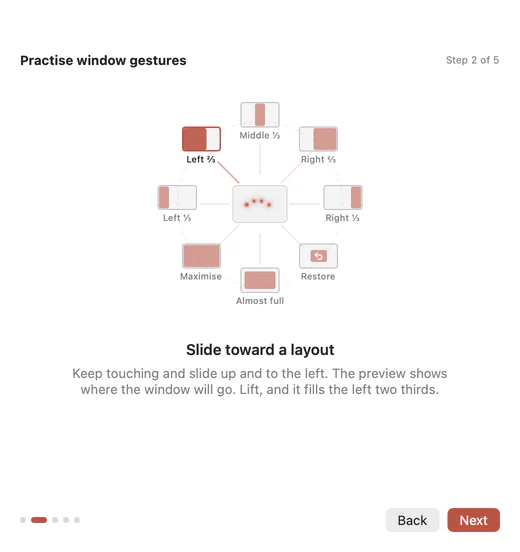
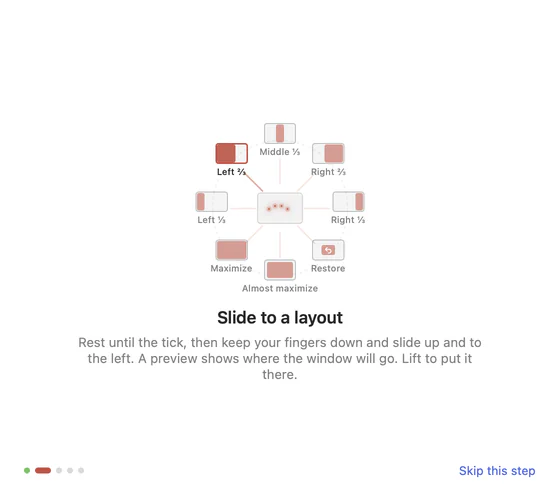
Screenshots with American spelling; the windows shot shows the new practice window

diff --git a/site/index.html b/site/index.html
@@ -131,8 +131,8 @@
     <figure class="shot">
       <picture>
         <source media="(prefers-color-scheme: dark)" srcset="img/windows-dark-1x.webp 1x, img/windows-dark.webp 2x">
-        <img src="img/windows-1x.webp" srcset="img/windows-1x.webp 1x, img/windows.webp 2x" width="520" height="552" loading="lazy" style="--w: 460px"
-             alt="The Practice window gestures walk-through, step 2 of 5: eight window layouts arranged in a wheel around four resting fingers, with left two thirds highlighted.">
+        <img src="img/windows-1x.webp" srcset="img/windows-1x.webp 1x, img/windows.webp 2x" width="560" height="502" loading="lazy" style="--w: 460px"
+             alt="The window gestures practice, at the step where you slide to a layout: eight window layouts arranged in a wheel around four resting fingers, with left two thirds highlighted.">
       </picture>
     </figure>
   </article>
